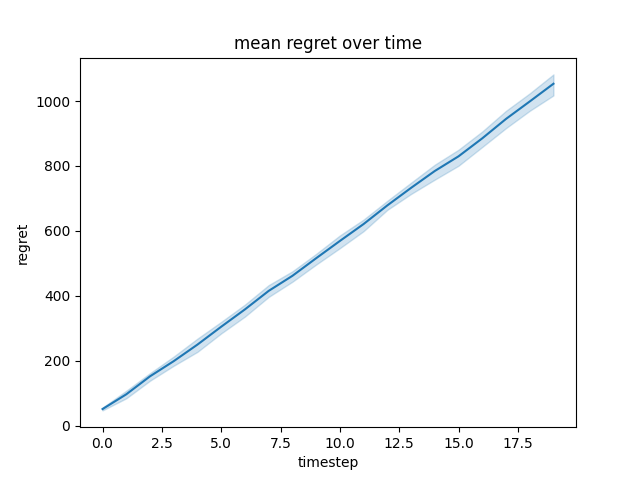
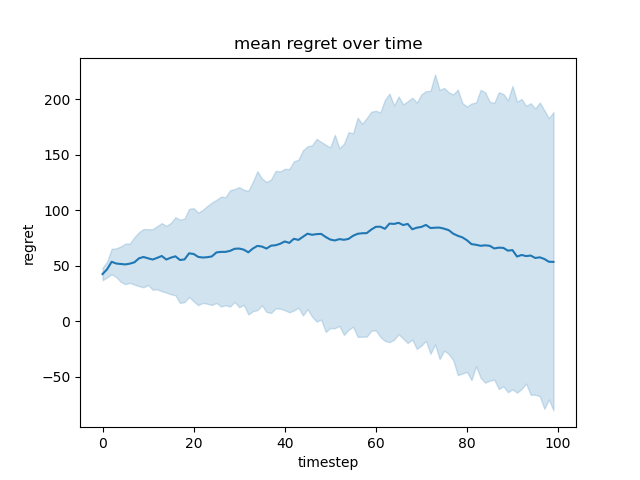
Update es4

diff --git a/prova_es4.py b/prova_es4.py
@@ -16,15 +16,15 @@ from social_influence.const import FEATURE_MAX, FEATURE_PARAM, SOCIAL_NAMES
 from social_influence.helper import Helper
 from social_influence.social_setup import SocialNetwork
 from social_influence.mc_sampling import MonteCarloSampling
-from social_influence.budget_allocation import CumulativeBudgetAllocation
+from social_influence.budget_allocation import CumulativeBudgetAllocation, StatelessBudgetAllocation
 
 from social_influence.LinUCB.LinUCBLearner import LinUCBLearner
 
 MAX_NODES = 50
-TOTAL_BUDGET = 7
+TOTAL_BUDGET = 3
 MAX_PROPAGATION_STEPS = 2
-N_EXPERIMENTS = 5
-T = 10
+N_EXPERIMENTS = 10
+T = 100
 
 n_social_networks = 3
 social_networks = []
@@ -51,6 +51,15 @@ budget_allocator = CumulativeBudgetAllocation(social_networks[0].get_matrix(), s
                                               n_steps_max)
 budgets, opt, optimal_seeds = budget_allocator.joint_influence_maximization()
 
+# clairvoyant_rew = np.sum(opt)
+# print(clairvoyant_rew)
+# exit()
+
+for i in optimal_seeds:
+    tmp = np.zeros(MAX_NODES)
+    tmp[optimal_seeds[i]] = 1
+    optimal_seeds[i] = tmp
+
 for i in range(n_social_networks):
     enviroments.append(LinUCBEnviroment(social_networks[i].get_matrix()))
     learners.append(
@@ -60,7 +69,9 @@ for i in range(n_social_networks):
 regret_per_experiment = []
 reward_per_timestep = []
 
-for e in range(N_EXPERIMENTS):
+comb_budget_allocator = StatelessBudgetAllocation(TOTAL_BUDGET, monte_carlo_simulations, n_steps_max)
+
+for e in trange(N_EXPERIMENTS):
     learners = []
     for i in range(n_social_networks):
         learners.append(
@@ -74,11 +85,8 @@ for e in range(N_EXPERIMENTS):
             reward = enviroments[j].round(pulled_arm)
             learners[j].update_values(pulled_arm, reward)
 
-        comb_budget_allocator = CumulativeBudgetAllocation(learners[0].get_prob_matrix(), learners[1].get_prob_matrix(),
-                                                           learners[2].get_prob_matrix(), TOTAL_BUDGET,
-                                                           monte_carlo_simulations, n_steps_max)
-
-        _, _, seeds = comb_budget_allocator.joint_influence_maximization()
+        _, _, seeds = comb_budget_allocator.joint_influence_maximization(learners[0].get_prob_matrix(), learners[1].get_prob_matrix(),
+                                                           learners[2].get_prob_matrix())
 
         comb_reward = 0
         clairvoyant_rew = 0
@@ -86,11 +94,17 @@ for e in range(N_EXPERIMENTS):
         random_seed = np.random.randint(0, 1000000)
 
         for z in range(n_social_networks):
-            mc_sampler = MonteCarloSampling(social_networks[z].get_matrix())
+            mc_sampler = samplers[z]
             seed = np.zeros(MAX_NODES)
             seed[seeds[z]] = 1
-            clairvoyant_rew += np.sum(mc_sampler.simulate_episode(optimal_seeds[z], n_steps_max, random_seed=random_seed))
-            comb_reward += np.sum(mc_sampler.simulate_episode(seed, n_steps_max, random_seed=random_seed))
+            clairvoyant_perf = np.sum(mc_sampler.simulate_episode(optimal_seeds[z], n_steps_max, random_seed=random_seed))
+            # print("Social {}, clairvoyant: {}".format(z+1, clairvoyant_perf))
+            learner_perf = np.sum(mc_sampler.simulate_episode(seed, n_steps_max, random_seed=random_seed))
+            # print("Social {}, learner: {}".format(z+1, learner_perf))
+            # print()
+
+            comb_reward += learner_perf
+            clairvoyant_rew += clairvoyant_perf
 
         cumulative_regret += clairvoyant_rew - comb_reward
         regret_per_timestep.append(cumulative_regret)

diff --git a/social_influence/budget_allocation.py b/social_influence/budget_allocation.py
@@ -312,7 +312,7 @@ class StatelessBudgetAllocation(object):
                                                       self.dictionary_creation(results[1]), self.dictionary_creation(results[2])
         return results_dict1, results_dict2, results_dict3
 
-    def joint_influence_maximization(self, matrix1, matrix2, matrix3,weights=None):
+    def joint_influence_maximization(self, matrix1, matrix2, matrix3, weights=None, split_joint_influence=False):
         """"
 
         :return: array [budget1, budget2, budget3] with maximized joint social influence value respecting the constraint
@@ -360,7 +360,13 @@ class StatelessBudgetAllocation(object):
                 cumulative_influences[argument_to_increment][budget[argument_to_increment] + 1] = [best_node, influence]
 
         # Computes the final joint influence
-        joint_influence = cumulative_influences[0][budget[0]][1] + cumulative_influences[1][budget[1]][1] + \
+        if split_joint_influence:
+            joint_influence = (cumulative_influences[0][budget[0]][1],
+                               cumulative_influences[1][budget[1]][1],
+                               cumulative_influences[2][budget[2]][1])
+
+        else:
+            joint_influence = cumulative_influences[0][budget[0]][1] + cumulative_influences[1][budget[1]][1] + \
                           cumulative_influences[2][budget[2]][1]
 
         if self.verbose:
